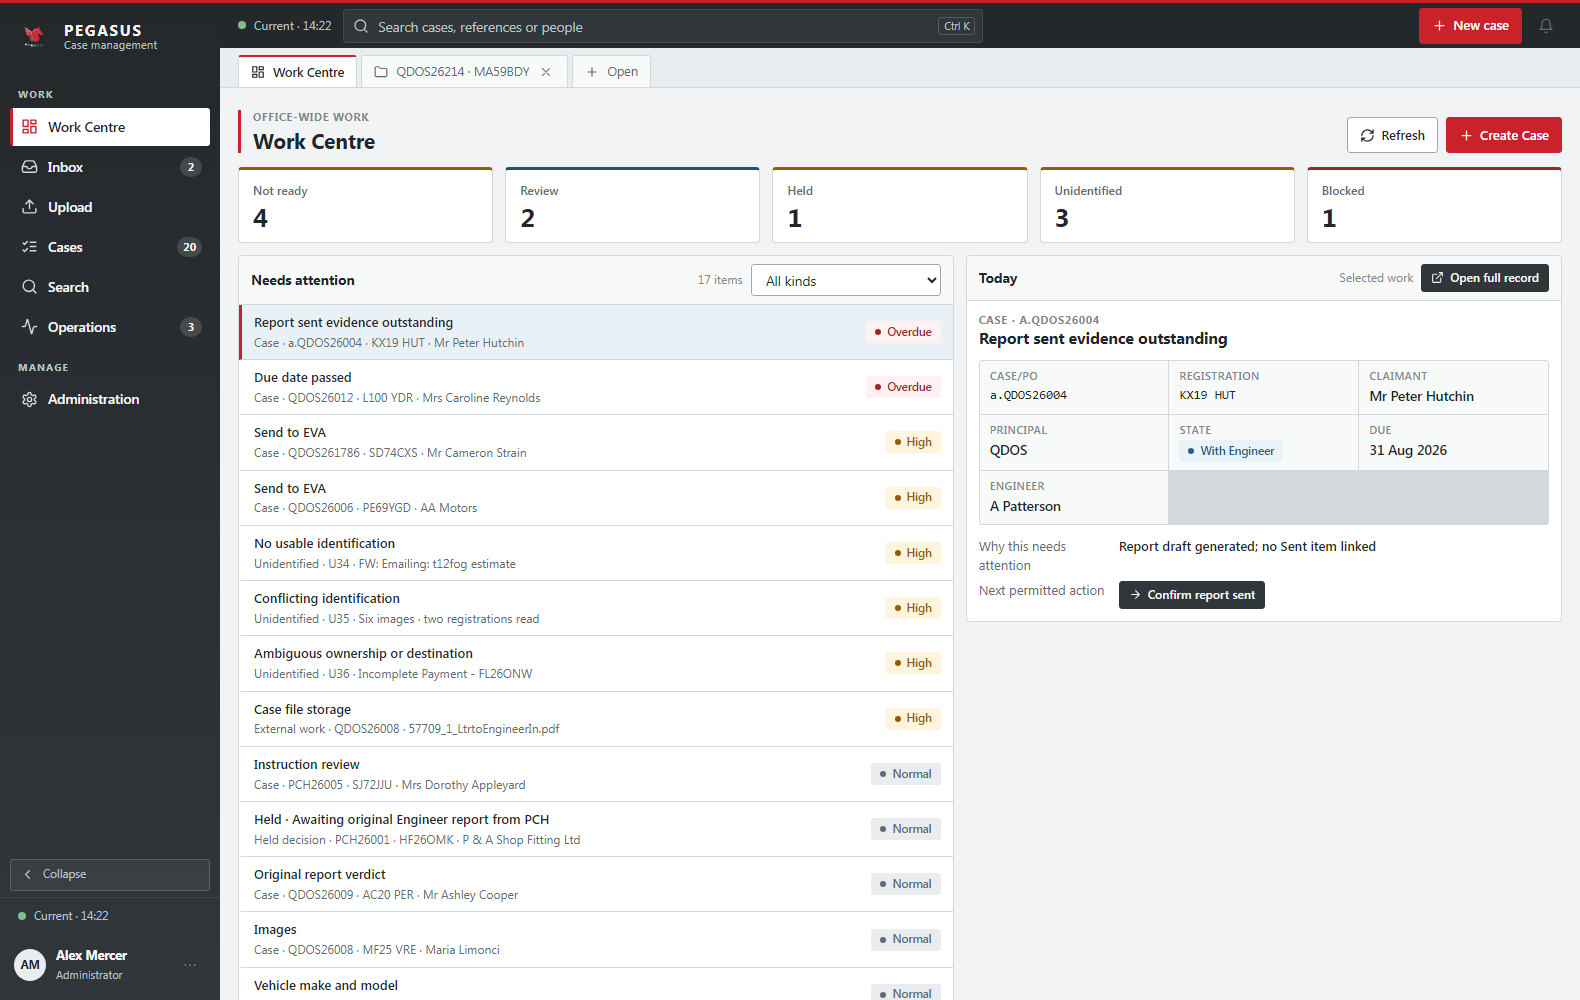
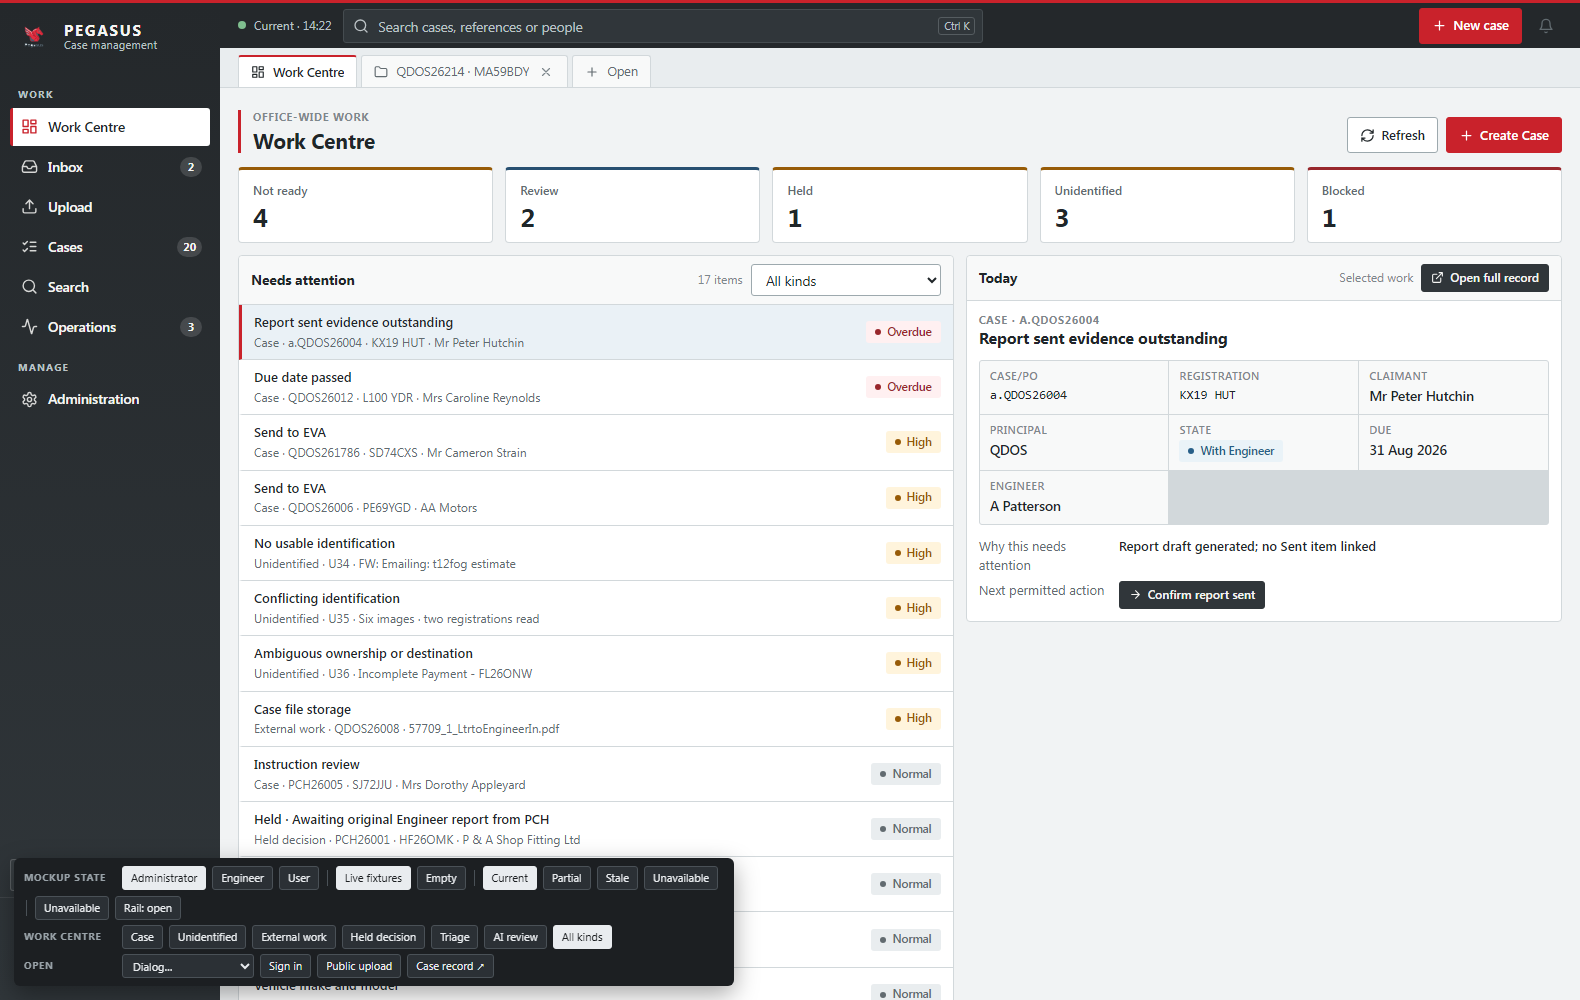
v26 shell: mockup control strip on every page
The same bottom-left strip as the Case record: role, live or empty
data, freshness, the page-level Unavailable notice and rail collapse;
a second row of page-specific states that follows the route (Work
Centre, Inbox, message, Upload, Cases, Create case, Search, Operations,
Administration, Triage, Unidentified, image record); and a dialog
opener. Query-string presets cover the same states for screenshots.
Self-check extended to 110 passing checks.

Claude-Session: https://claude.ai/code/session_01UkoyKWmZrjt4TF9nQwnQSs

Changed region(s): [[0.0, 0.837, 0.4962, 1.0]]

diff --git a/case-workspace-v25-mockup/pegasus_shell_v26.html b/case-workspace-v25-mockup/pegasus_shell_v26.html
@@ -615,6 +615,16 @@ code, .mono { font-family: var(--mono); font-size: .95em; }
 .mt-2 { margin-top: 8px; }
 .mb-2 { margin-bottom: 8px; }
 
+/* ---- Mockup control strip (as on the Case record) ---- */
+.mock { position: fixed; left: 14px; bottom: 14px; z-index: 900; background: #1c1f22; color: #e9ecef; border-radius: 6px; padding: 8px 10px; font-size: 11px; display: flex; flex-direction: column; align-items: stretch; gap: 5px; box-shadow: 0 8px 24px rgba(0,0,0,.35); max-width: min(720px, calc(100vw - 28px)); }
+.mock .mrow { display: flex; gap: 6px; align-items: center; flex-wrap: wrap; }
+.mock .mrow b { min-width: 92px; font-size: 9.5px; letter-spacing: .1em; text-transform: uppercase; color: #9aa3a9; }
+.mock button { border: 1px solid #4a5157; background: #2b3035; color: #e9ecef; border-radius: 3px; padding: 3px 8px; font-size: 11px; cursor: pointer; }
+.mock button.on { background: #e9ecef; color: #1c1f22; border-color: #e9ecef; }
+.mock select { border: 1px solid #4a5157; background: #2b3035; color: #e9ecef; border-radius: 3px; padding: 3px 6px; font-size: 11px; height: 24px; }
+.mock .sep { width: 1px; height: 16px; background: #4a5157; margin: 0 2px; }
+@media (max-width: 760px) { .mock { left: 8px; right: 8px; } }
+
 </style>
 </head>
 <body>
@@ -1723,13 +1733,13 @@ function rail(path) {
       return `${manage}<a class="nav-link" href="#${n.route}" ${current ? 'aria-current="page"' : ''}>${icon(n.icon)}<span>${esc(n.label)}</span>${count ? `<span class="nav-count" aria-label="${count} outstanding">${count}</span>` : ''}</a>`;
     }).join('')}</nav>
     <div class="rail-spacer"></div>
-    <div class="rail-health"><span class="health-dot ${S.freshness === 'partial' ? 'partial' : S.freshness === 'failed' ? 'failed' : ''}"></span><span>${S.freshness === 'current' ? 'Current' : S.freshness === 'partial' ? 'Partial data' : 'Last-good data'} · ${S.freshnessTime}</span></div>
+    <div class="rail-health"><span class="health-dot ${freshDot()}"></span><span>${freshLabel()} · ${S.freshnessTime}</span></div>
     <div class="rail-user"><span class="avatar" aria-hidden="true">${initials(S.user.name)}</span><div><strong>${esc(S.user.name)}</strong><small>${esc(L.role[S.user.role])}</small></div>${iconButton('more-horizontal', 'account-menu', 'Account menu')}</div>
   </aside>`;
 }
 function utilityBar() {
   return `<div class="utility-bar">
-    <div class="utility-freshness"><span class="health-dot ${S.freshness === 'partial' ? 'partial' : ''}"></span><span>${S.freshness === 'current' ? 'Current' : 'Partial data'} · ${S.freshnessTime}</span></div>
+    <div class="utility-freshness"><span class="health-dot ${freshDot()}"></span><span>${freshLabel()} · ${S.freshnessTime}</span></div>
     <div class="utility-search">${icon('search')}<input type="search" id="global-search" placeholder="Search cases, references or people" aria-label="Search" data-keydown="global-search"><kbd>Ctrl K</kbd></div>
     <div class="utility-actions">${btn('New case', '', { href: '#/cases/new', kind: 'primary', icon: 'plus' })}${iconButton('bell', 'notifications', 'Notifications')}</div>
   </div>`;
@@ -2718,11 +2728,84 @@ renderAdmin = function (area, params = {}) {
   return pageHeader(a.label, 'Administration', `${primary}${btn('Refresh', 'refresh', { icon: 'refresh-cw' })}`) + `<div class="admin-layout">${adminNav(a.key)}<div class="admin-content">${content}</div></div>`;
 };
 
+// ---- Mockup control strip (demo control, not product UI; the Case record has the same) ----
+S.mock = { role: 'administrator', data: 'fixtures', fresh: 'current', unavailable: false };
+const FRESH_LABELS = { current: 'Current', partial: 'Partial', stale: 'Stale', unavailable: 'Unavailable', failed: 'Failed' };
+function freshLabel() { return FRESH_LABELS[S.freshness] || 'Current'; }
+function freshDot() { return S.freshness === 'partial' || S.freshness === 'stale' ? 'partial' : S.freshness === 'unavailable' || S.freshness === 'failed' ? 'failed' : ''; }
+const MOCK_DIALOG_ARGS = { 'account-settings': { id: 's2' }, 'account-reset': { id: 's2' }, 'account-disable': { id: 's2' }, 'account-enable': { id: 's6' }, 'principal-settings': { id: 'p1' }, 'principal-key': { id: 'p1' }, 'principal-replace': { id: 'p1' }, 'rate-card-disable': { id: 'rc1' }, 'mailbox-settings': { id: 'mb1' }, 'mailbox-folders': { id: 'mb1' }, 'category-state': { id: 'cat1' }, 'glass-credentials': { id: 'gs2' }, 'glass-clear': { id: 'gs2' }, 'contact-edit': { id: 'k1' }, 'preset-edit': { id: 'vp1' }, 'preset-remove': { id: 'vp1' }, 'ai-cancel': { id: 'ai1' }, 'withdraw-link': { case: 'c99', link: 'ul99' }, 'triage-finding': { id: 't2' }, 'triage-assign': { id: 't2' }, 'triage-cancel': { id: 't2' }, 'triage-reopen': { id: 't1' }, 'triage-link': { id: 't2' }, 'triage-note': { id: 't2' }, 'unidentified-resolve': { id: 'u2' }, 'image-merge': { id: 'ic1' }, 'image-close': { id: 'ic1' }, 'mail-classify': { mail: 'm4' }, 'mail-move': { mail: 'm19' }, 'mail-delete': { mail: 'm4' }, compose: { mode: 'compose' }, 'mail-link': { mail: 'm21' }, 'add-to-case': { file: 'x' }, viewer: { name: 'IMG_4418.jpg' } };
+const UNAVAILABLE_TEXT = { '/': 'Work Centre is unavailable. Refresh to run the live queues again.', '/inbox': 'Inbox is unavailable. Refresh to read the retained mail again.', '/cases': 'Cases are unavailable. Refresh to run the live queues again.', '/search': 'Cases are unavailable. The search could not be completed; try again.', '/operations': 'Operations is unavailable. Refresh to try again.', '/admin/health': 'Service health is unavailable. Refresh to try again.' };
+const EMPTY_LISTS = ['cases', 'mail', 'triage', 'unidentified', 'imageCases', 'aiJobs', 'externalWork', 'actionLogs', 'evaHandoffs', 'blocked', 'contacts', 'valuationPresets', 'health'];
+const renderBase = render;
+render = function () {
+  const path = parseRoute().path;
+  if (S.mock.data === 'empty') {
+    const saved = {}; for (const k of EMPTY_LISTS) { saved[k] = DATA[k]; DATA[k] = []; }
+    try { renderBase(); } finally { for (const k of EMPTY_LISTS) DATA[k] = saved[k]; }
+  } else renderBase();
+  if (S.mock.unavailable) {
+    const content = document.querySelector('#app .content');
+    if (content) { const head = content.querySelector('.page-header'); const title = head ? head.querySelector('h1').textContent : 'This page'; content.innerHTML = (head ? head.outerHTML : '') + notice(UNAVAILABLE_TEXT[path] || `${title} is unavailable. Refresh to try again.`, 'warning'); }
+  }
+  renderMock(path);
+};
+function mockBtn(label, on, action, data = {}) { return `<button type="button"${on ? ' class="on"' : ''} data-action="${action}"${Object.entries(data).map(([k, v]) => ` data-${k}="${attr(v)}"`).join('')}>${esc(label)}</button>`; }
+function mockRow(label, body) { return `<div class="mrow"><b>${esc(label)}</b>${body}</div>`; }
+function pageMockRow(path) {
+  const m = path.match(/^\/(triage|unidentified|images|inbox)\/([^/]+)$/);
+  if (path === '/upload') return mockRow('Upload', ['idle', 'ready', 'storing', 'done'].map(s => mockBtn({ idle: 'Idle', ready: 'Files chosen', storing: 'Storing', done: 'Decided' }[s], S.upload.stage === s, 'mock-upload', { stage: s })).join(''));
+  if (path === '/cases') return mockRow('Cases', QUEUE_TABS.map(t => mockBtn(t.label, S.queueTab === t.key, 'go', { route: `/cases?tab=${t.key}` })).join('') + mockBtn('Missing: images', S.queueMissing === 'images', 'mock-missing'));
+  if (path === '/cases/new') return mockRow('Create case', mockBtn('Manual', !S.newCase?.providerRef, 'mock-newcase', { mode: 'manual' }) + mockBtn('Seeded from a received file', !!S.newCase?.providerRef, 'mock-newcase', { mode: 'seed' }));
+  if (path === '/search') return mockRow('Search', mockBtn('No query', !Object.values(S.search.query).some(Boolean), 'mock-search', { q: '' }) + mockBtn('Results', S.search.query.claimant === 'a', 'mock-search', { q: 'a' }) + mockBtn('No results', S.search.query.claimant === 'zzz', 'mock-search', { q: 'zzz' }));
+  if (path === '/operations') { const partial = DATA.health.some(r => r.state === 'partial' || r.state === 'failed'); return mockRow('Operations', mockBtn('Partial data notice', partial, 'mock-partial')); }
+  if (path.startsWith('/admin')) { const a = DATA.automation; const patrick = DATA.staff.find(s => s.username === 'patrick'); return mockRow('Administration', mockBtn(a.enabled ? 'Automation: enabled' : 'Automation: stopped', a.enabled, 'mock-automation') + mockBtn(a.ai.enabled ? 'AI: enabled' : 'AI: stopped', a.ai.enabled, 'mock-ai') + mockBtn('Password change required', !!patrick.mustChange, 'mock-mustchange') + mockBtn('Hub', path === '/admin', 'go', { route: '/admin' })); }
+  if (m && m[1] === 'triage') { const t = byId(DATA.triage, m[2]); return mockRow('Triage', Object.keys(L.triage).map(k => mockBtn(L.triage[k].label, t.state === k, 'mock-triage', { id: t.id, state: k })).join('') + mockBtn(t.assignee ? 'Assigned' : 'Unassigned', !!t.assignee, 'mock-triage-assign', { id: t.id })); }
+  if (m && m[1] === 'unidentified') { const u = byId(DATA.unidentified, m[2]); return mockRow('Unidentified', mockBtn('Open', u.state === 'open', 'mock-unid', { id: u.id, state: 'open' }) + mockBtn('Resolved', u.state === 'resolved', 'mock-unid', { id: u.id, state: 'resolved' }) + DATA.unidentified.map(x => mockBtn(x.ref, x.id === u.id, 'go', { route: `/unidentified/${x.id}` })).join('')); }
+  if (m && m[1] === 'images') { const ic = byId(DATA.imageCases, m[2]); return mockRow('Image record', Object.keys(L.imageCase).map(k => mockBtn(L.imageCase[k].label, ic.state === k, 'mock-image', { id: ic.id, state: k })).join('')); }
+  if (m && m[1] === 'inbox') { const msg = getMail(m[2]); return mockRow('Message', ['message', 'attachments', 'thread', 'case'].map(k => mockBtn(k[0].toUpperCase() + k.slice(1), S.mailTab === k, 'mock-mailtab', { tab: k })).join('') + mockBtn('Reply', false, 'open-dialog', { dialog: 'compose', mode: 'reply', mail: msg.id }) + mockBtn('Forward', false, 'open-dialog', { dialog: 'compose', mode: 'forward', mail: msg.id }) + mockBtn(msg.classification === 'unidentified' ? 'Unclassified' : 'Classified', msg.classification !== 'unidentified', 'mock-mailclass', { mail: msg.id })); }
+  if (path === '/inbox') return mockRow('Inbox', Object.keys(L.mailScope).map(k => mockBtn(L.mailScope[k], S.inbox.scope === k, 'inbox-scope', { scope: k })).join('') + mockBtn(S.inbox.sort === 'desc' ? 'Newest first' : 'Oldest first', true, 'inbox-sort'));
+  if (path === '/') return mockRow('Work Centre', [...new Set(needsAttention().map(i => i.kind))].map(k => mockBtn(k, S.workKind === k, 'mock-workkind', { kind: k })).join('') + mockBtn('All kinds', !S.workKind, 'mock-workkind', { kind: '' }));
+  return '';
+}
+function renderMock(path) {
+  let el = document.getElementById('mock');
+  if (!el) { el = document.createElement('div'); el.id = 'mock'; el.className = 'mock'; document.body.appendChild(el); }
+  const dialogs = Object.keys(DIALOGS).sort();
+  el.innerHTML = mockRow('Mockup state', ['administrator', 'engineer', 'user'].map(r => mockBtn(L.role[r], S.mock.role === r, 'mock-role', { role: r })).join('') + '<span class="sep"></span>' + mockBtn('Live fixtures', S.mock.data === 'fixtures', 'mock-data', { data: 'fixtures' }) + mockBtn('Empty', S.mock.data === 'empty', 'mock-data', { data: 'empty' }) + '<span class="sep"></span>' + Object.entries(FRESH_LABELS).filter(([k]) => k !== 'failed').map(([k, l]) => mockBtn(l, S.freshness === k, 'mock-fresh', { fresh: k })).join('') + '<span class="sep"></span>' + mockBtn('Unavailable', S.mock.unavailable, 'mock-unavailable') + mockBtn(railCollapsed() ? 'Rail: collapsed' : 'Rail: open', railCollapsed(), 'rail-toggle')) +
+    pageMockRow(path) +
+    mockRow('Open', `<select data-change="mock-dialog"><option value="">Dialog…</option>${dialogs.map(k => `<option value="${k}">${k}</option>`).join('')}</select>` + mockBtn('Sign in', path === '/signin', 'go', { route: '/signin' }) + mockBtn('Public upload', path.startsWith('/uploads/'), 'go', { route: '/uploads/7Hq2' }) + mockBtn('Case record ↗', false, 'mock-case'));
+}
+ACTIONS['mock-role'] = el => { S.mock.role = el.dataset.role; S.user = DATA.staff.find(s => s.role === el.dataset.role && s.state === 'enabled') || DATA.staff.find(s => s.role === el.dataset.role) || DATA.staff[0]; render(); };
+ACTIONS['mock-data'] = el => { S.mock.data = el.dataset.data; render(); };
+ACTIONS['mock-fresh'] = el => { S.freshness = el.dataset.fresh; S.mock.fresh = el.dataset.fresh; render(); };
+ACTIONS['mock-unavailable'] = () => { S.mock.unavailable = !S.mock.unavailable; S.freshness = S.mock.unavailable ? 'unavailable' : S.mock.fresh; render(); };
+ACTIONS['mock-upload'] = el => { const st = el.dataset.stage; if (st === 'idle') S.upload = { stage: 'idle', files: [] }; else { if (S.upload.stage === 'idle' || S.upload.stage === 'done') ACTIONS['upload-sample'](); if (st === 'storing') { S.upload.stage = 'storing'; S.upload.files.forEach(f => { f.state = 'storing'; }); } else if (st === 'done') { S.upload.files.forEach((f, i) => Object.assign(f, decideFile(f, i, DATA.sampleUpload.find(s => s.name === f.name)))); S.upload.stage = 'done'; } else { S.upload.stage = 'ready'; S.upload.files.forEach(f => { f.state = 'ready'; f.outcome = null; }); } } render(); };
+ACTIONS['mock-missing'] = () => { S.queueMissing = S.queueMissing === 'images' ? '' : 'images'; go('/cases?tab=not-ready'); render(); };
+ACTIONS['mock-newcase'] = el => { S.newCase = el.dataset.mode === 'seed' ? { type: 'inspection', ...DATA.sampleUpload.find(s => s.seed).seed } : null; render(); };
+ACTIONS['mock-search'] = el => { S.search = { query: el.dataset.q ? { claimant: el.dataset.q } : {}, results: null, selected: null }; go(el.dataset.q ? `/search?claimant=${el.dataset.q}` : '/search'); render(); };
+ACTIONS['mock-partial'] = () => { const r = DATA.health.find(x => x.area === 'files'); const on = DATA.health.some(x => x.state === 'partial' || x.state === 'failed'); DATA.health.forEach(x => { if (x.state === 'partial' || x.state === 'failed') { x.state = 'current'; x.retry = false; } }); if (!on && r) { r.state = 'failed'; r.retry = true; } render(); };
+ACTIONS['mock-automation'] = () => { DATA.automation.enabled = !DATA.automation.enabled; render(); };
+ACTIONS['mock-ai'] = () => { DATA.automation.ai.enabled = !DATA.automation.ai.enabled; render(); };
+ACTIONS['mock-mustchange'] = () => { const p = DATA.staff.find(s => s.username === 'patrick'); p.mustChange = !p.mustChange; render(); };
+ACTIONS['mock-triage'] = el => { const t = byId(DATA.triage, el.dataset.id); t.state = el.dataset.state; if (t.state === 'finding' && !t.roadworthiness) { t.roadworthiness = 'Roadworthy'; t.assessment = 'Repairable'; } render(); };
+ACTIONS['mock-triage-assign'] = el => { const t = byId(DATA.triage, el.dataset.id); t.assignee = t.assignee ? null : 'A Patterson'; render(); };
+ACTIONS['mock-unid'] = el => { const u = byId(DATA.unidentified, el.dataset.id); u.state = el.dataset.state; if (u.state === 'resolved' && !u.resolution) u.resolution = 'Added to Case QDOS26214'; render(); };
+ACTIONS['mock-image'] = el => { const ic = byId(DATA.imageCases, el.dataset.id); ic.state = el.dataset.state; if (ic.state === 'merged' && !ic.mergedInto) ic.mergedInto = 'c99'; render(); };
+ACTIONS['mock-mailtab'] = el => { S.mailTab = el.dataset.tab; render(); };
+ACTIONS['mock-mailclass'] = el => { const msg = getMail(el.dataset.mail); msg.classification = msg.classification === 'unidentified' ? 'instruction' : 'unidentified'; render(); };
+ACTIONS['mock-workkind'] = el => { S.workKind = el.dataset.kind; render(); };
+ACTIONS['mock-case'] = () => { window.location.href = caseHref(); };
+CHANGES['mock-dialog'] = el => { const k = el.value; if (!k) return; el.value = ''; openDialog(k, MOCK_DIALOG_ARGS[k] || {}); };
+
 // ---- Self-check handle (the bundle runs in a strict closure) ----
-window.__pegasus = { S, DATA, L, ADMIN_AREAS, DIALOGS, ACTIONS, CHANGES, openDialog, closeDialog, renderDialog, caseHref, get render() { return render; }, get renderCase() { return renderCase; } };
+window.__pegasus = { S, DATA, L, ADMIN_AREAS, DIALOGS, ACTIONS, CHANGES, MOCK_DIALOG_ARGS, openDialog, closeDialog, renderDialog, caseHref, get render() { return render; }, get renderCase() { return renderCase; } };
 
 // ---- Screenshot presets (query string on the hash route) ----
 AFTER_RENDER.push((path, params) => {
+  if (params.role && S.mock.role !== params.role) { S.mock.role = params.role; S.user = DATA.staff.find(x => x.role === params.role && x.state === 'enabled') || DATA.staff.find(x => x.role === params.role) || DATA.staff[0]; setTimeout(render, 0); }
+  if (params.data && S.mock.data !== params.data) { S.mock.data = params.data; setTimeout(render, 0); }
+  if (params.fresh && S.freshness !== params.fresh) { S.freshness = params.fresh; S.mock.fresh = params.fresh; setTimeout(render, 0); }
+  if (params.unavailable === '1' && !S.mock.unavailable) { S.mock.unavailable = true; S.freshness = 'unavailable'; setTimeout(render, 0); }
   if (path === '/upload' && params.sample === '1' && S.upload.stage === 'idle') { ACTIONS['upload-sample'](); ACTIONS['upload-submit'](); }
   if (params.dialog && !S.dialog) openDialog(params.dialog, { ...params });
 });

diff --git a/case-workspace-v25-mockup/v26-shell-selfcheck.html b/case-workspace-v25-mockup/v26-shell-selfcheck.html
@@ -33,6 +33,15 @@ f.onload=()=>{
     route('/admin/valuation-presets');const n0=g('DATA.valuationPresets.length');g("DATA.valuationPresets.push({id:'vpx',name:'Test',amount:1,state:'active'})");g('render()');check('preset added renders',has('Test'));g("DATA.valuationPresets.pop()");
     route('/admin/accounts');g("openDialog('glass-credentials',{id:'gs4'})");check('glass dialog for unconfigured engineer',dlgOpen()&&!d.querySelector('#dialog-root').textContent.includes('Clear credential'));dlgClose();
     g("ACTIONS['rail-toggle']()");check('rail collapsed',d.querySelector('.app-shell').classList.contains('rail-collapsed'));g("ACTIONS['rail-toggle']()");
+    // mockup strip
+    check('mock strip present',!!d.getElementById('mock')&&d.getElementById('mock').textContent.includes('Mockup state'));
+    route('/admin/accounts');g("ACTIONS['mock-role']({dataset:{role:'user'}})");check('user role denied admin',has('Administration is available to Administrators only'));g("ACTIONS['mock-role']({dataset:{role:'administrator'}})");
+    route('/');g("ACTIONS['mock-data']({dataset:{data:'empty'}})");check('empty data shows empty work centre',has('Nothing needs attention'));g("ACTIONS['mock-data']({dataset:{data:'fixtures'}})");check('fixtures restored',has('Report sent evidence outstanding'));
+    g("ACTIONS['mock-unavailable']()");check('unavailable notice',has('Work Centre is unavailable'));g("ACTIONS['mock-unavailable']()");check('available again',!has('Work Centre is unavailable'));
+    g("ACTIONS['mock-fresh']({dataset:{fresh:'partial'}})");check('freshness label',d.querySelector('.rail-health').textContent.includes('Partial'));g("ACTIONS['mock-fresh']({dataset:{fresh:'current'}})");
+    route('/triage/t2');g("ACTIONS['mock-triage']({dataset:{id:'t2',state:'completed'}})");check('triage completed via strip',has('Reopen'));g("ACTIONS['mock-triage']({dataset:{id:'t2',state:'open'}})");
+    route('/upload');g("ACTIONS['mock-upload']({dataset:{stage:'done'}})");check('upload decided via strip',has('files received'));g("ACTIONS['mock-upload']({dataset:{stage:'idle'}})");
+    route('/');g("CHANGES['mock-dialog']({value:'notifications'})");check('strip opens dialog',dlgOpen());dlgClose();
     check('case tab present',!!d.querySelector('.workspace-tab[href="#/cases/c99"]'));
     check('case route hands off',typeof w.__pegasus.renderCase==='function'&&w.__pegasus.caseHref({section:'estimate'})==='pegasus_case_workspace_v26.html?layout=tabs&section=estimate');
   }catch(e){log.push('EXC '+e.message+'\n'+e.stack);}

diff --git a/case-workspace-v25-mockup/v26-notes.md b/case-workspace-v25-mockup/v26-notes.md
@@ -106,6 +106,24 @@ workspace tabs, New case button and search box come back to the shell.
 | `#/admin` | The hub with the live three groups; Staff accounts & roles (with the Glass's column and Manage login from the account), Contacts (principals, claim sources, repairers, storage, third party engineers, salvage agents), Workflow configuration, Mail settings (Default sender, mailboxes, categories), Valuation presets (Fixed valuation additions), Service health, Action logs, Reports (MI01–MI03), AI jobs, Automation & AI |
 | `#/signin`, `#/uploads/{token}` | The navless frames |
 
+**Mockup strip.** Every shell page carries the same dark control strip as the
+Case record, bottom left. Row one is global: role (Administrator, Engineer,
+User; User sees no Manage group and gets the live Access denied page),
+data (live fixtures or every list empty, for the empty states), freshness
+(Current, Partial, Stale, Unavailable on the rail and utility bar), the
+page-level Unavailable notice with the live wording, and the rail collapse.
+Row two follows the route: Work Centre kinds; Inbox scopes and sort; the
+message record's tabs, Reply, Forward and classification; Upload's Idle,
+Files chosen, Storing and Decided; the Cases scopes and the Missing filter;
+Create case manual or seeded from a received file; Search with no query,
+results or no results; the Operations partial-data notice; Administration's
+automation, AI and password-change states and the hub; Triage's five states
+and assignment; Unidentified open or resolved and the other items; the image
+record's three states. Row three opens any dialog by name, the sign-in and
+public upload frames, and the Case record. The same states are reachable by
+query string for screenshots (`role`, `data`, `fresh`, `unavailable=1`,
+`dialog`, `sample=1`).
+
 **How it was built.** The pages are the EPIC-012 v2 prototype modules from the
 private pack, concatenated with the vendor name replaced by "AI", the Case
 route handed to the v26 file, and a recorded list of exact-string corrections so
@@ -125,8 +143,8 @@ principal dialog.
 
 **Self-check.** `v26-shell-selfcheck.html` renders every route, opens and
 closes every dialog, and drives the main flows; run it the same way as the
-Case record's check. 12 September: `{"fail":[],"okCount":100}`, no console
-errors on any of the 29 rendered routes (`v26-shots/s*.png`).
+Case record's check. 12 September: `{"fail":[],"okCount":110}` including the strip, no console
+errors on any of the 33 rendered routes and states (`v26-shots/s*.png`).
 
 ## Decisions that need sign-off before Stage 2
 
